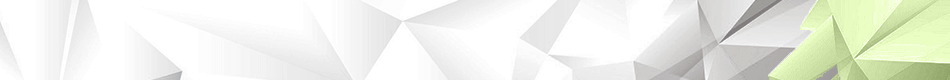
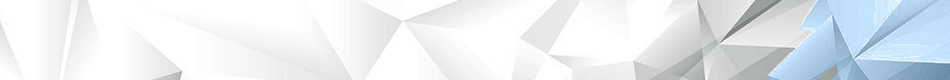
Rose are red Wegas is blue Green has aged I'm overwriting you

Changed region(s): [[0.7937, 0.0, 1.0, 1.0]]

diff --git a/wegas-app/src/main/webapp/wegas-editor/css/wegas-editor.css b/wegas-app/src/main/webapp/wegas-editor/css/wegas-editor.css
@@ -27,7 +27,7 @@
 }
 .yui3-skin-sam .host-switchmode.yui3-button-selected {
     background: white;
-    color: #03283A;
+    color: #6AACF1;
 }
  
 .yui3-skin-sam .wegas-editview {
@@ -57,7 +57,7 @@ body, button, .yui3-skin-sam .yui3-datatable-table,
 .wegas-comments {
     font-style: italic;
     margin-top: 25px !important;
-    border-top: solid 2px #b7cb90; /* New green theme, previous value: #4A8C9C; */
+    border-top: solid 2px #6AACF1;
     width: 30em;
 }
 
@@ -133,7 +133,7 @@ body, button, .yui3-skin-sam .yui3-datatable-table,
     bottom: 0px;
     width: 100%;
     overflow: hidden;
-    border-top: 4px solid #b7cb90 !important;
+    border-top: 4px solid #6AACF1 !important;
 }
 
 .yui3-skin-sam .wegas-layout-right .wegas-tabview-fullheight > .yui3-tabview-content > .yui3-tabview-panel {
@@ -187,7 +187,7 @@ body, button, .yui3-skin-sam .yui3-datatable-table,
     font-size: 20px;
     top: 10px;
     margin-left: 10px;
-    background: #b7cb90;
+    background: #6AACF1;
     padding: 5px 0 0 0;
     color: white;
     border-radius: 10px 10px 0 0;
@@ -453,7 +453,7 @@ body, button, .yui3-skin-sam .yui3-datatable-table,
 }
 
 .yui3-skin-sam .wegas-layout-resizable .wegas-layout-column .yui3-resize-handle {
-    background: #b7cb90; /* New green background, previous value: #03283A; */
+    background: #6AACF1;
 }
 
 .wegas-layout-column > .wegas-list,
@@ -465,7 +465,7 @@ body, button, .yui3-skin-sam .yui3-datatable-table,
     top: 0;
     height: auto !important;
     bottom: 0;
-    /* border-top: 4px solid #b7cb90 !important; */
+    /* border-top: 4px solid #6AACF1 !important; */
 }
 
 .yui3-skin-sam .wegas-layout-column .yui3-tabview-list {

diff --git a/wegas-app/src/main/webapp/wegas-app/css/wegas-tabview.css b/wegas-app/src/main/webapp/wegas-app/css/wegas-tabview.css
@@ -36,7 +36,7 @@
     white-space: nowrap;
     overflow: hidden;
     text-overflow: ellipsis;
-    background: #888686;
+    background: #A7CEF6;
     color: black;
     -webkit-user-select: none;
     -moz-user-select: none;
@@ -46,7 +46,7 @@
 .yui3-skin-sam .wegas-tabview-resizetabs > ul .yui3-tab:hover .yui3-tab-label,
 .yui3-skin-sam .yui3-tab-label:hover,
 .yui3-skin-sam .yui3-tab-label:focus {
-    background: #5A5858;
+    background: #86BDF6;
 }
 .yui3-skin-sam .wegas-tabview-resizetabs > ul .yui3-tab {
     width: 100%;
@@ -74,7 +74,7 @@
 .yui3-skin-sam .wegas-tabview-fullheight > .wegas-tabview-resizetabs > .yui3-tabview-list .yui3-tab-selected .yui3-tab-label,
 .yui3-skin-sam .wegas-tabview-fullheight > .wegas-tabview-resizetabs > .yui3-tabview-list .yui3-tab-selected .yui3-tab-label:focus,
 .yui3-skin-sam .wegas-tabview-fullheight > .wegas-tabview-resizetabs > .yui3-tabview-list .yui3-tab-selected .yui3-tab-label:hover {
-    background: #b7cb90;
+    background: #6AACF1;
     padding: 10px 0;
     color: white;
 }
@@ -178,7 +178,7 @@
     z-index: 24; /* Must be above editing panes */
     right: 0;
     top: 40px;
-    background: #b7cb90;
+    background: #6AACF1;
     color: white;
     cursor: pointer;
     padding: 3px 2px 3px 4px;

diff --git a/wegas-app/src/main/webapp/wegas-editor/css/wegas-presence.css b/wegas-app/src/main/webapp/wegas-editor/css/wegas-presence.css
@@ -9,22 +9,22 @@
 .yui3-skin-sam .yui3-wegas-editorchat {
     z-index: 200;
     position: relative;
-    /* background-color: #b7cb90;  */ /* New green background, previous value was #03283A; */
-    /* border: 1px solid #b7cb90; */ /* New green background, previous value was #03283A; */
+    /*background-color: #D3ECF6;*/
+    /*border: 1px solid #D3ECF6;*/
 }
 
 .yui3-skin-sam .yui3-wegas-editorchat .conversation {
     position: relative;
-    background-color: #27576E;
+    background-color: #D3ECF6;
     color: black;
 }
 
 .yui3-skin-sam .yui3-wegas-editorchat .editorchat-footer {
-    color: white;
+    color: #4c4c4c;
     cursor: pointer;
     padding: 0 10px 3px;
     float: right;
-    background-color: #27576E;
+    background-color: #D3ECF6;
     user-select: none;
 }
 
@@ -35,7 +35,7 @@
 }
 
 .yui3-skin-sam .yui3-wegas-editorchat .msgs .notification {
-    color: white;
+    /*color: white;*/
     text-align: center;
     font-style: italic;
     font-size: 90%;

diff --git a/wegas-app/src/main/webapp/wegas-app/css/wegas-layout-resizable.css b/wegas-app/src/main/webapp/wegas-app/css/wegas-layout-resizable.css
@@ -12,7 +12,7 @@
 /* Wegas Layout Widget Styles */
 .yui3-skin-sam .wegas-layout-resizable {
     /* background-color: hsla(199,89%,12%,1); */
-    /* background-color: #b7cb90; */ /* New green background */
+    /* background-color: #D3ECF6; */ /* New green background */
     /* background-color: rgba(183, 203, 144, 0.9); */ /* New green background with transparency */
     /*overflow: hidden;*/
 }
@@ -54,7 +54,7 @@
     right: 0;
 }
 .yui3-skin-sam .wegas-layout-resizable .yui3-resize-handle {
-    background: #b7cb90; /* New green background, previous value: #03283A; */
+    background: #6AACF1;
     margin-top: 38px; /* Hide vertical bar in the tab bar */
     width: 4px;
 }

diff --git a/wegas-app/src/main/webapp/wegas-util/css/treeview.css b/wegas-app/src/main/webapp/wegas-util/css/treeview.css
@@ -178,7 +178,7 @@
 .selected > div > .yui3-treeleaf-content-header,
 .selected > .yui3-treenode-content-header,
 .yui3-treeview-multiselect .sub-fully-selected > .yui3-treenode-content-header {
-    background-color: #d2e8ba; /* #b7cb90 #EDEDED; */
+    background-color: #A7CEF6; /* #D3ECF6 #EDEDED; */
     box-shadow: 0px 0px 1px #afc18e; /* #6D6D6D; */
 }
 

diff --git a/wegas-app/src/main/webapp/wegas-util/css/wegas-widgettoolbar.css b/wegas-app/src/main/webapp/wegas-util/css/wegas-widgettoolbar.css
@@ -105,7 +105,7 @@
 .wegas-form-title {
     float: left;
     display: inline-block;
-    border-bottom: 2px solid #b7cb90;
+    border-bottom: 2px solid #D3ECF6;
     font-size: 18px;
     margin: 1px 12px 0 6px;
     font-family: Rockwell;

diff --git a/wegas-core/src/main/java/com/wegas/core/ejb/RequestManager.java b/wegas-core/src/main/java/com/wegas/core/ejb/RequestManager.java
@@ -14,17 +14,16 @@ import com.wegas.core.event.client.ExceptionEvent;
 import com.wegas.core.exception.client.WegasErrorMessage;
 import com.wegas.core.exception.client.WegasRuntimeException;
 import com.wegas.core.persistence.AbstractEntity;
+import com.wegas.core.persistence.InstanceOwner;
 import com.wegas.core.persistence.game.GameModel;
 import com.wegas.core.persistence.game.Player;
 import com.wegas.core.persistence.game.Team;
 import com.wegas.core.rest.util.Views;
 import com.wegas.core.security.ejb.UserFacade;
 import com.wegas.core.security.persistence.User;
-import jdk.nashorn.api.scripting.ScriptUtils;
-import jdk.nashorn.internal.runtime.ScriptObject;
-import org.slf4j.Logger;
-import org.slf4j.LoggerFactory;
-
+import java.util.*;
+import java.util.Map.Entry;
+import java.util.concurrent.TimeUnit;
 import javax.annotation.PostConstruct;
 import javax.annotation.PreDestroy;
 import javax.ejb.EJB;
@@ -35,10 +34,10 @@ import javax.persistence.EntityManager;
 import javax.persistence.PersistenceContext;
 import javax.script.ScriptContext;
 import javax.ws.rs.core.Response;
-import java.util.*;
-import java.util.Map.Entry;
-import java.util.concurrent.TimeUnit;
-import com.wegas.core.persistence.InstanceOwner;
+import jdk.nashorn.api.scripting.ScriptUtils;
+import jdk.nashorn.internal.runtime.ScriptObject;
+import org.slf4j.Logger;
+import org.slf4j.LoggerFactory;
 
 //import javax.annotation.PostConstruct;
 /**
